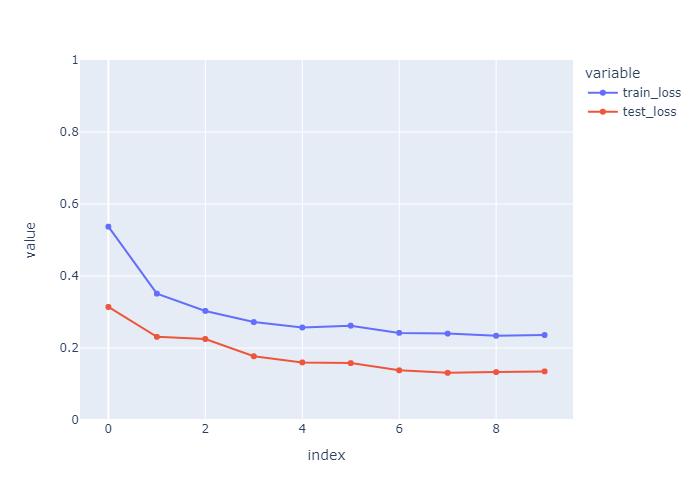
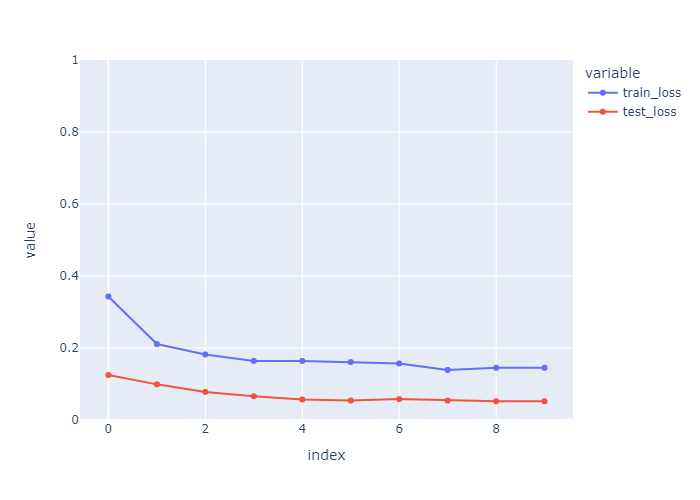
first commit

diff --git a/dvc_plots/index.html b/dvc_plots/index.html
@@ -1,0 +1,245 @@
+<!DOCTYPE html>
+<html>
+<head>
+    
+    <title>DVC Plot</title>
+    
+
+    <script src="https://cdn.jsdelivr.net/npm/vega@5.20.2"></script>
+    <script src="https://cdn.jsdelivr.net/npm/vega-lite@5.2.0"></script>
+    <script src="https://cdn.jsdelivr.net/npm/vega-embed@6.18.2"></script>
+    
+    <style>
+        table {
+            border-spacing: 15px;
+        }
+    </style>
+</head>
+<body>
+    
+    <div id = "logs_csv">
+        <script type = "text/javascript">
+            var spec = {
+    "$schema": "https://vega.github.io/schema/vega-lite/v5.json",
+    "data": {
+        "values": [
+    {
+        "rev": "workspace",
+        "step": 0,
+        "test_accuracy": "0.968"
+    },
+    {
+        "rev": "workspace",
+        "step": 1,
+        "test_accuracy": "0.984"
+    },
+    {
+        "rev": "workspace",
+        "step": 2,
+        "test_accuracy": "0.984"
+    },
+    {
+        "rev": "workspace",
+        "step": 3,
+        "test_accuracy": "0.984"
+    },
+    {
+        "rev": "workspace",
+        "step": 4,
+        "test_accuracy": "0.984"
+    },
+    {
+        "rev": "workspace",
+        "step": 5,
+        "test_accuracy": "0.984"
+    },
+    {
+        "rev": "workspace",
+        "step": 6,
+        "test_accuracy": "0.984"
+    },
+    {
+        "rev": "workspace",
+        "step": 7,
+        "test_accuracy": "0.984"
+    },
+    {
+        "rev": "workspace",
+        "step": 8,
+        "test_accuracy": "1.0"
+    },
+    {
+        "rev": "workspace",
+        "step": 9,
+        "test_accuracy": "0.984"
+    },
+    {
+        "rev": "HEAD",
+        "step": 0,
+        "test_accuracy": "0.903"
+    },
+    {
+        "rev": "HEAD",
+        "step": 1,
+        "test_accuracy": "0.903"
+    },
+    {
+        "rev": "HEAD",
+        "step": 2,
+        "test_accuracy": "0.919"
+    },
+    {
+        "rev": "HEAD",
+        "step": 3,
+        "test_accuracy": "0.903"
+    },
+    {
+        "rev": "HEAD",
+        "step": 4,
+        "test_accuracy": "0.919"
+    },
+    {
+        "rev": "HEAD",
+        "step": 5,
+        "test_accuracy": "0.935"
+    },
+    {
+        "rev": "HEAD",
+        "step": 6,
+        "test_accuracy": "0.968"
+    },
+    {
+        "rev": "HEAD",
+        "step": 7,
+        "test_accuracy": "0.935"
+    },
+    {
+        "rev": "HEAD",
+        "step": 8,
+        "test_accuracy": "0.935"
+    },
+    {
+        "rev": "HEAD",
+        "step": 9,
+        "test_accuracy": "0.935"
+    }
+]
+    },
+    "title": "logs.csv",
+    "width": 300,
+    "height": 300,
+    "layer": [
+        {
+            "encoding": {
+                "x": {
+                    "field": "step",
+                    "type": "quantitative",
+                    "title": "x"
+                },
+                "y": {
+                    "field": "test_accuracy",
+                    "type": "quantitative",
+                    "title": "test_accuracy",
+                    "scale": {
+                        "zero": false
+                    }
+                },
+                "color": {
+                    "field": "rev",
+                    "type": "nominal"
+                }
+            },
+            "layer": [
+                {
+                    "mark": "line"
+                },
+                {
+                    "selection": {
+                        "label": {
+                            "type": "single",
+                            "nearest": true,
+                            "on": "mouseover",
+                            "encodings": [
+                                "x"
+                            ],
+                            "empty": "none",
+                            "clear": "mouseout"
+                        }
+                    },
+                    "mark": "point",
+                    "encoding": {
+                        "opacity": {
+                            "condition": {
+                                "selection": "label",
+                                "value": 1
+                            },
+                            "value": 0
+                        }
+                    }
+                }
+            ]
+        },
+        {
+            "transform": [
+                {
+                    "filter": {
+                        "selection": "label"
+                    }
+                }
+            ],
+            "layer": [
+                {
+                    "mark": {
+                        "type": "rule",
+                        "color": "gray"
+                    },
+                    "encoding": {
+                        "x": {
+                            "field": "step",
+                            "type": "quantitative"
+                        }
+                    }
+                },
+                {
+                    "encoding": {
+                        "text": {
+                            "type": "quantitative",
+                            "field": "test_accuracy"
+                        },
+                        "x": {
+                            "field": "step",
+                            "type": "quantitative"
+                        },
+                        "y": {
+                            "field": "test_accuracy",
+                            "type": "quantitative"
+                        }
+                    },
+                    "layer": [
+                        {
+                            "mark": {
+                                "type": "text",
+                                "align": "left",
+                                "dx": 5,
+                                "dy": -5
+                            },
+                            "encoding": {
+                                "color": {
+                                    "type": "nominal",
+                                    "field": "rev"
+                                }
+                            }
+                        }
+                    ]
+                }
+            ]
+        }
+    ]
+}
+;
+            vegaEmbed('#logs_csv', spec);
+        </script>
+    </div>
+    
+</body>
+</html>

diff --git a/train.py b/train.py
@@ -69,25 +69,24 @@ device = torch.device("cuda:0" if torch.cuda.is_available() else "cpu")
 
 ####fine tuning Swin Transformer#################
 
-resnet =  models.resnet18(weights=models.ResNet18_Weights.IMAGENET1K_V1)
+swin_t =  models.swin_t(weights=models.Swin_T_Weights.IMAGENET1K_V1)
 
 
 num_classes = 2
-for param in resnet.parameters():
-        param.requires_grad=False
+for param in swin_t.parameters():
+    param.requires_grad = False
 
-    #Training the last fc layer
-in_features =  resnet.fc.in_features
-resnet.fc = nn.Linear(in_features,num_classes)
-            
+
+in_features = swin_t.head.in_features
+swin_t.head = nn.Linear(in_features=in_features,out_features=num_classes)
 '''
-for param in resnet.parameters():
+for param in swin_t.parameters():
     if param.requires_grad == True :
         print(param.shape)
 '''    
 
 
-model = resnet.to(device)
+model = swin_t.to(device)
 loss_fn = nn.CrossEntropyLoss()
 opt = optim.AdamW(model.parameters(), lr=0.001,weight_decay=0.01)
 exp_lr_scheduler = lr_scheduler.StepLR(opt, step_size=7, gamma=0.1)
